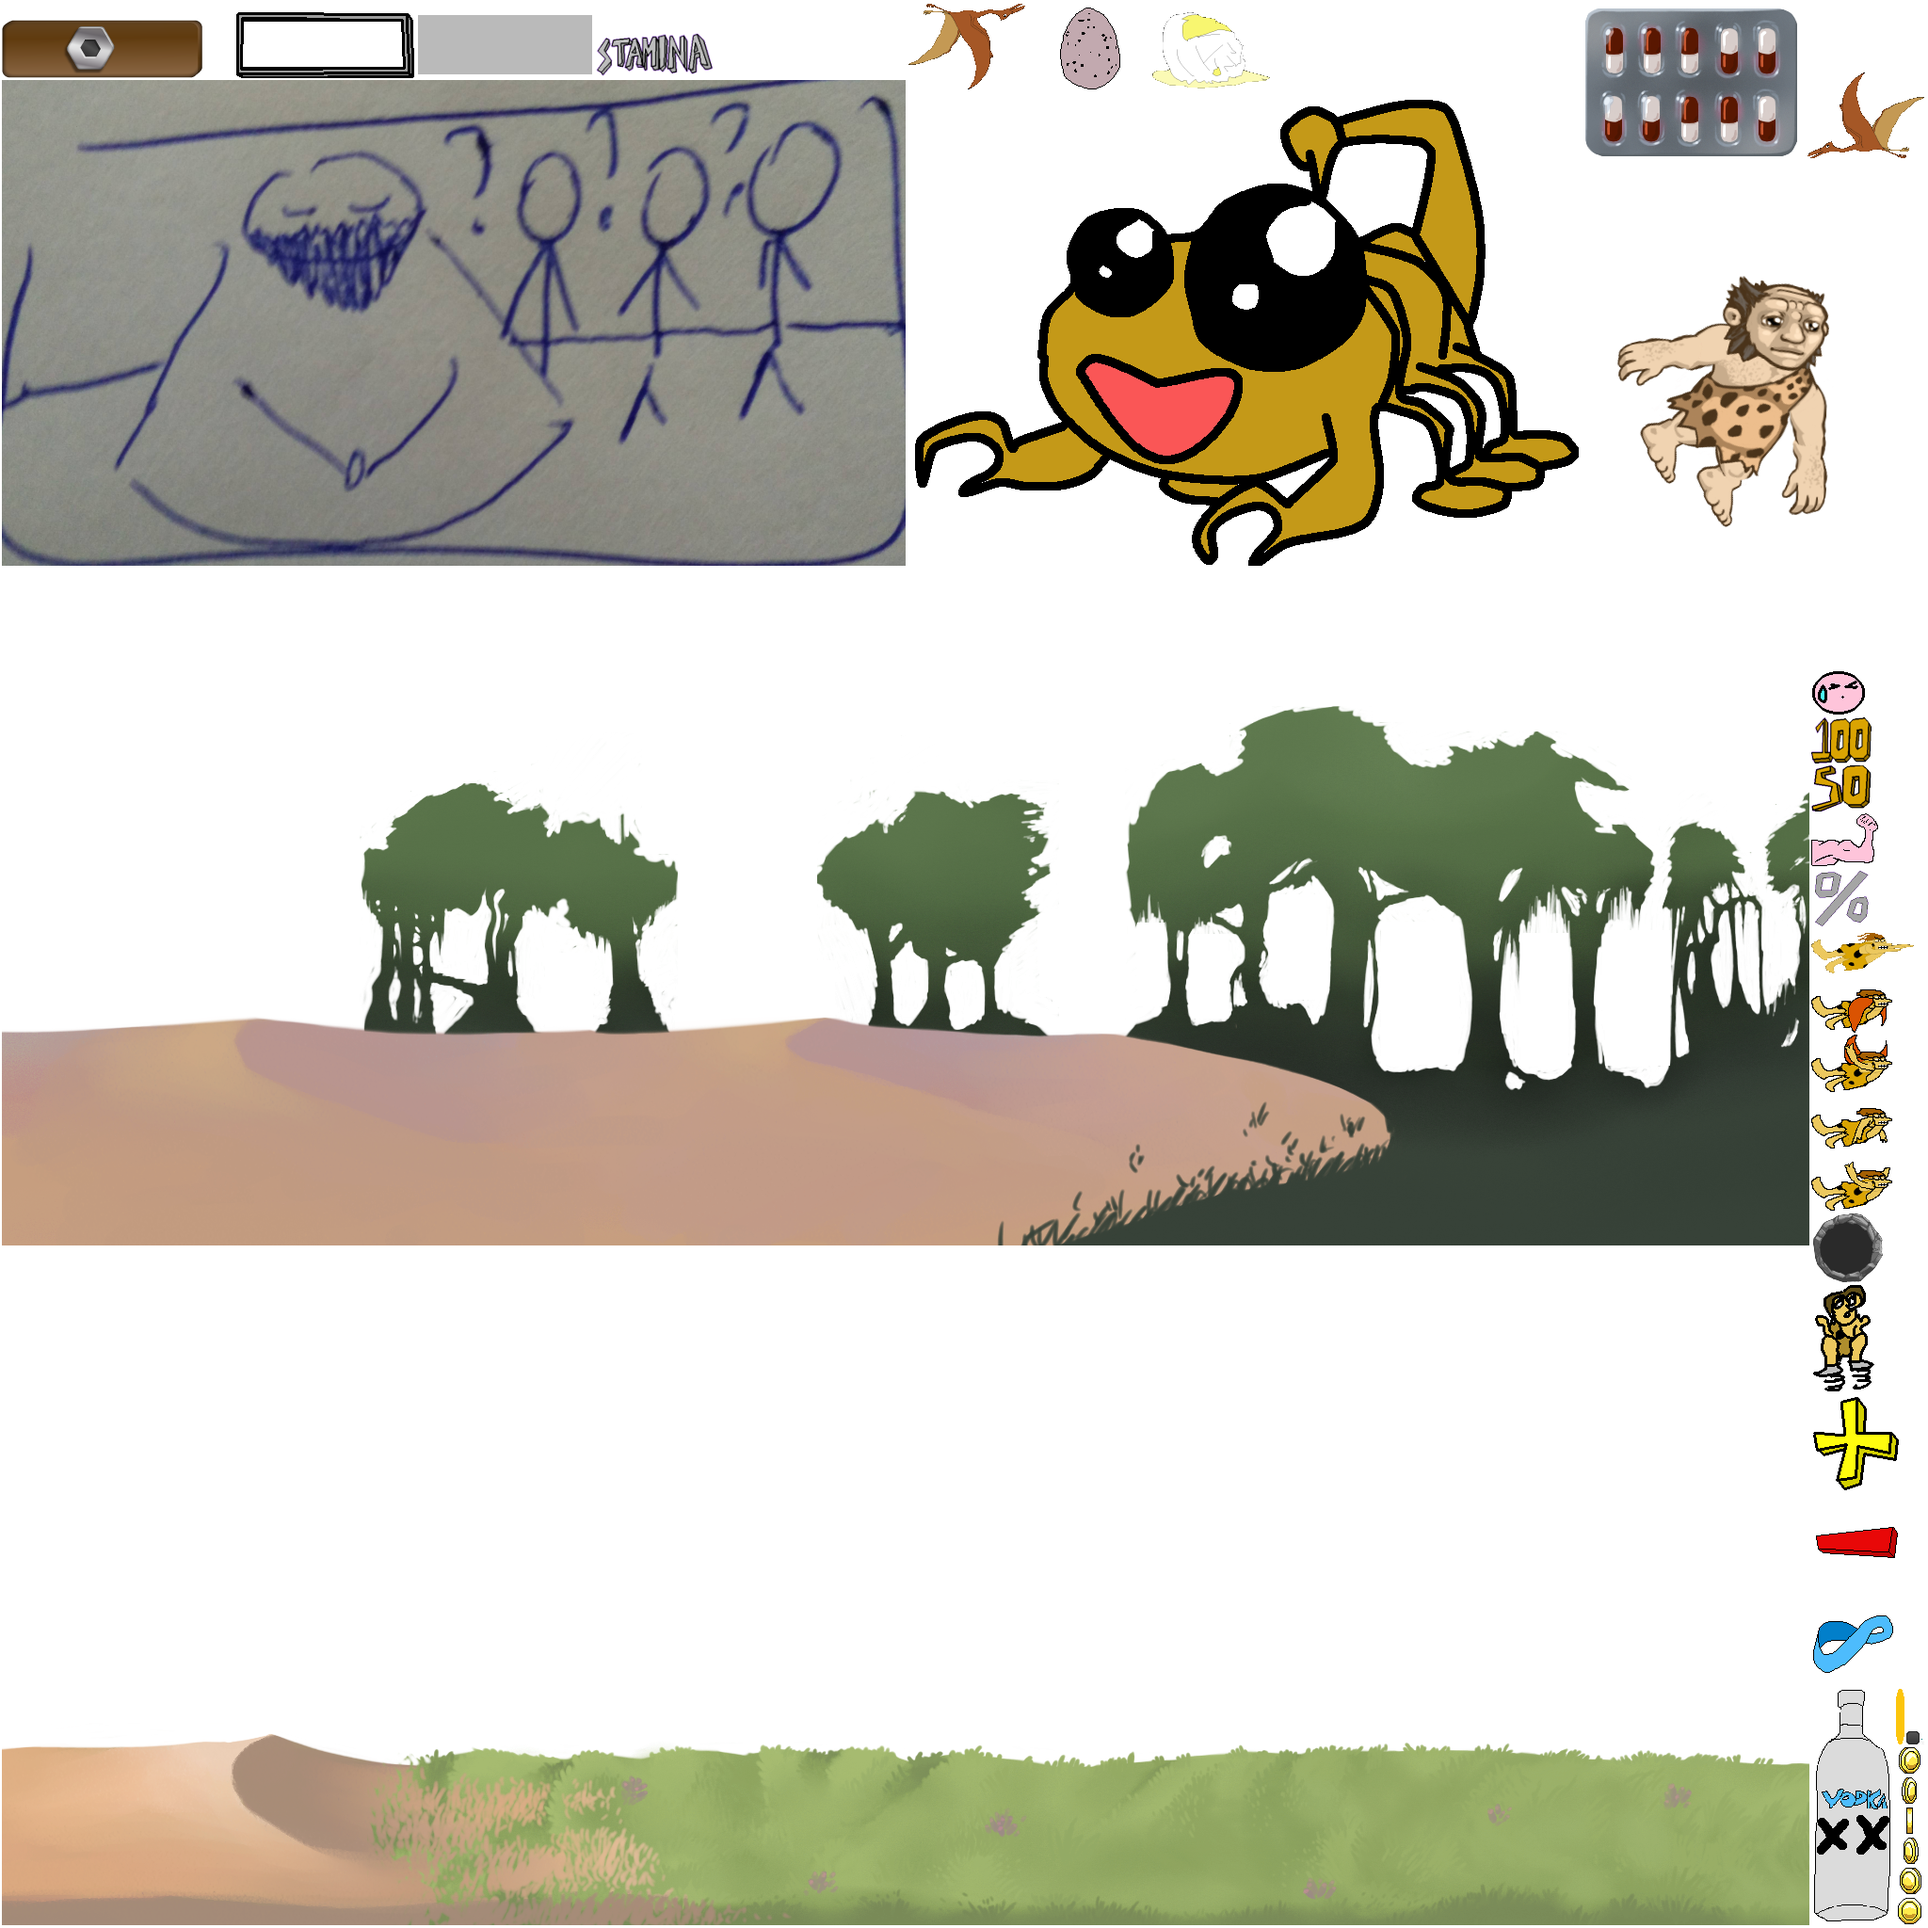
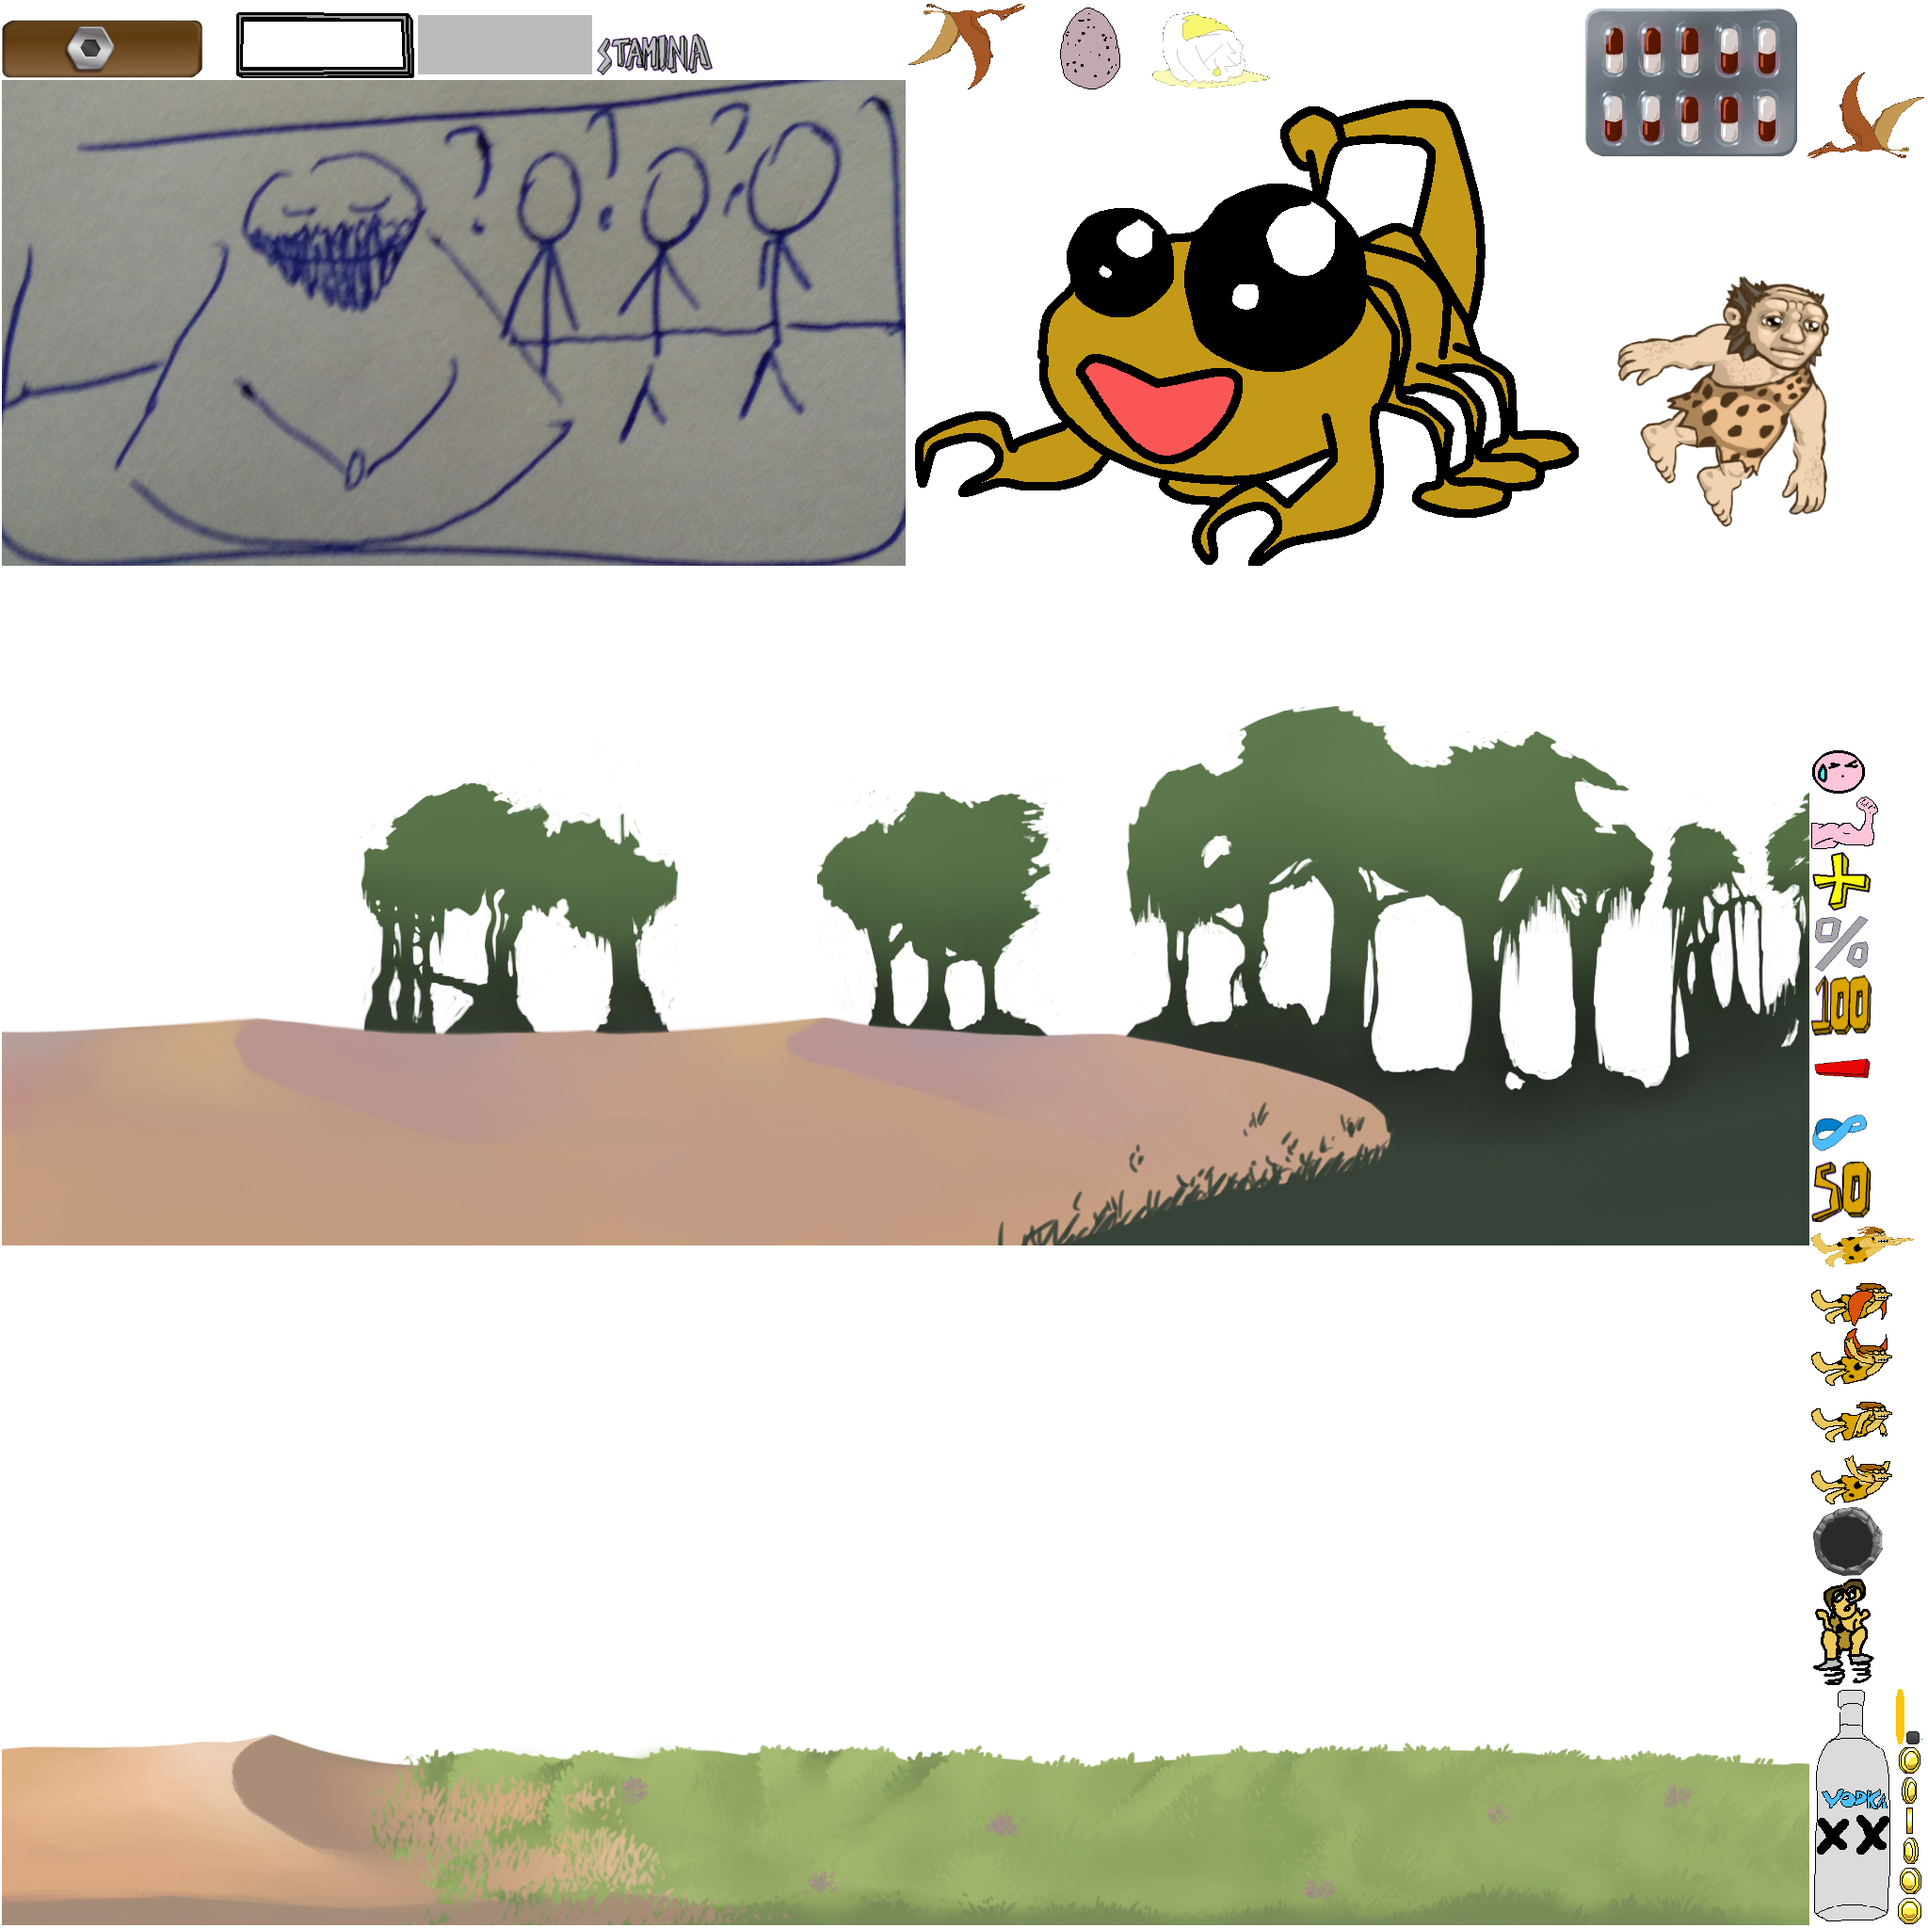
:trihard:  powerups feedback UI

Changed region(s): [[0.9375, 0.3438, 1.0, 0.875]]

diff --git a/core/src/com/deeep/flycaveman/widgets/PickupsWidget.java b/core/src/com/deeep/flycaveman/widgets/PickupsWidget.java
@@ -63,36 +63,76 @@ public class PickupsWidget extends Actor {
     public void show(PowerUp.Type type) {
         if (type == PowerUp.Type.VODKA) {
             stamina.addAction(new SequenceAction(
-                    Actions.moveTo(80, Core.VIRTUAL_HEIGHT / 2 - stamina.getHeight() / 2, 0.4f)/*,
-                    Actions.scaleBy(1.2f, 1.2f, 0.25f), Actions.scaleBy(0.5f, 0.5f, 0.25f)*/,
+                    Actions.moveTo(192, Core.VIRTUAL_HEIGHT / 2 - stamina.getHeight() / 2, 0.4f),
+                    Actions.scaleBy(0.5f, 0.5f, 0.25f), Actions.scaleBy(-0.5f, -0.5f, 0.25f),
                     Actions.delay(0.5f),
                     Actions.moveTo(-stamina.getWidth(), Core.VIRTUAL_HEIGHT / 2 - stamina.getHeight() / 2, 0.4f)));
             minus.addAction(new SequenceAction(
-                    Actions.moveTo(20, Core.VIRTUAL_HEIGHT / 2 - minus.getHeight() / 2, 0.4f)/*,
-                    Actions.scaleBy(1.2f, 1.2f, 0.25f), Actions.scaleBy(0.5f, 0.5f, 0.25f)*/,
+                    Actions.moveTo(0, Core.VIRTUAL_HEIGHT / 2 - minus.getHeight() / 2, 0.4f),
+                    Actions.scaleBy(0.5f, 0.5f, 0.25f), Actions.scaleBy(-0.5f, -0.5f, 0.25f),
                     Actions.delay(0.5f),
                     Actions.moveTo(-minus.getWidth(), Core.VIRTUAL_HEIGHT / 2 - minus.getHeight() / 2, 0.4f)));
+            five.addAction(new SequenceAction(
+                    Actions.moveTo(64, Core.VIRTUAL_HEIGHT / 2 - five.getHeight() / 2, 0.4f),
+                    Actions.scaleBy(0.5f, 0.5f, 0.25f), Actions.scaleBy(-0.5f, -0.5f, 0.25f),
+                    Actions.delay(0.5f),
+                    Actions.moveTo(-stamina.getWidth(), Core.VIRTUAL_HEIGHT / 2 - five.getHeight() / 2, 0.4f)));
+            percentage.addAction(new SequenceAction(
+                    Actions.moveTo(128, Core.VIRTUAL_HEIGHT / 2 - percentage.getHeight() / 2, 0.4f),
+                    Actions.scaleBy(0.5f, 0.5f, 0.25f), Actions.scaleBy(-0.5f, -0.5f, 0.25f),
+                    Actions.delay(0.5f),
+                    Actions.moveTo(-percentage.getWidth(), Core.VIRTUAL_HEIGHT / 2 - percentage.getHeight() / 2, 0.4f)));
         } else if (type == PowerUp.Type.SPINACH) {
             stamina.addAction(new SequenceAction(
-                    Actions.moveTo(80, Core.VIRTUAL_HEIGHT / 2 - stamina.getHeight() / 2, 0.4f)/*,
-                    Actions.scaleBy(1.2f, 1.2f, 0.25f), Actions.scaleBy(0.5f, 0.5f, 0.25f)*/,
+                    Actions.moveTo(80, Core.VIRTUAL_HEIGHT / 2 - stamina.getHeight() / 2, 0.4f),
+                    Actions.scaleBy(0.5f, 0.5f, 0.25f), Actions.scaleBy(-0.5f, -0.5f, 0.25f),
                     Actions.delay(0.5f),
                     Actions.moveTo(-stamina.getWidth(), Core.VIRTUAL_HEIGHT / 2 - stamina.getHeight() / 2, 0.4f)));
             infinite.addAction(new SequenceAction(
-                    Actions.moveTo(20, Core.VIRTUAL_HEIGHT / 2 - infinite.getHeight() / 2, 0.4f)/*,
-                    Actions.scaleBy(1.2f, 1.2f, 0.25f), Actions.scaleBy(0.5f, 0.5f, 0.25f)*/,
+                    Actions.moveTo(0, Core.VIRTUAL_HEIGHT / 2 - infinite.getHeight() / 2, 0.4f),
+                    Actions.scaleBy(0.5f, 0.5f, 0.25f), Actions.scaleBy(-0.5f, -0.5f, 0.25f),
                     Actions.delay(0.5f),
                     Actions.moveTo(-infinite.getWidth(), Core.VIRTUAL_HEIGHT / 2 - infinite.getHeight() / 2, 0.4f)));
         } else if (type == PowerUp.Type.SODACAN) {
             stamina.addAction(new SequenceAction(
-                    Actions.moveTo(80, Core.VIRTUAL_HEIGHT / 2 - stamina.getHeight() / 2, 0.4f)/*,
-                    Actions.scaleBy(1.2f, 1.2f, 0.25f), Actions.scaleBy(0.5f, 0.5f, 0.25f)*/,
+                    Actions.moveTo(80, Core.VIRTUAL_HEIGHT / 2 - stamina.getHeight() / 2, 0.4f),
+                    Actions.scaleBy(0.5f, 0.5f, 0.25f), Actions.scaleBy(-0.5f, -0.5f, 0.25f),
+                    Actions.delay(0.5f),
+                    Actions.moveTo(-stamina.getWidth(), Core.VIRTUAL_HEIGHT / 2 - stamina.getHeight() / 2, 0.4f)));
+            plus.addAction(new SequenceAction(
+                    Actions.moveTo(0, Core.VIRTUAL_HEIGHT / 2 - plus.getHeight() / 2, 0.4f),
+                    Actions.scaleBy(0.5f, 0.5f, 0.25f), Actions.scaleBy(-0.5f, -0.5f, 0.25f),
+                    Actions.delay(0.5f),
+                    Actions.moveTo(-plus.getWidth(), Core.VIRTUAL_HEIGHT / 2 - plus.getHeight() / 2, 0.4f)));
+            five.addAction(new SequenceAction(
+                    Actions.moveTo(35, Core.VIRTUAL_HEIGHT / 2 - stamina.getHeight() / 2, 0.4f),
+                    Actions.scaleBy(0.5f, 0.5f, 0.25f), Actions.scaleBy(-0.5f, -0.5f, 0.25f),
+                    Actions.delay(0.5f),
+                    Actions.moveTo(-stamina.getWidth(), Core.VIRTUAL_HEIGHT / 2 - stamina.getHeight() / 2, 0.4f)));
+            percentage.addAction(new SequenceAction(
+                    Actions.moveTo(45, Core.VIRTUAL_HEIGHT / 2 - stamina.getHeight() / 2, 0.4f),
+                    Actions.scaleBy(0.5f, 0.5f, 0.25f), Actions.scaleBy(-0.5f, -0.5f, 0.25f),
                     Actions.delay(0.5f),
                     Actions.moveTo(-stamina.getWidth(), Core.VIRTUAL_HEIGHT / 2 - stamina.getHeight() / 2, 0.4f)));
         } else if (type == PowerUp.Type.MEAT) {
             stamina.addAction(new SequenceAction(
-                    Actions.moveTo(80, Core.VIRTUAL_HEIGHT / 2 - stamina.getHeight() / 2, 0.4f)/*,
-                    Actions.scaleBy(1.2f, 1.2f, 0.25f), Actions.scaleBy(0.5f, 0.5f, 0.25f)*/,
+                    Actions.moveTo(80, Core.VIRTUAL_HEIGHT / 2 - stamina.getHeight() / 2, 0.4f),
+                    Actions.scaleBy(0.5f, 0.5f, 0.25f), Actions.scaleBy(-0.5f, -0.5f, 0.25f),
+                    Actions.delay(0.5f),
+                    Actions.moveTo(-stamina.getWidth(), Core.VIRTUAL_HEIGHT / 2 - stamina.getHeight() / 2, 0.4f)));
+            plus.addAction(new SequenceAction(
+                    Actions.moveTo(0, Core.VIRTUAL_HEIGHT / 2 - plus.getHeight() / 2, 0.4f),
+                    Actions.scaleBy(0.5f, 0.5f, 0.25f), Actions.scaleBy(-0.5f, -0.5f, 0.25f),
+                    Actions.delay(0.5f),
+                    Actions.moveTo(-plus.getWidth(), Core.VIRTUAL_HEIGHT / 2 - plus.getHeight() / 2, 0.4f)));
+            one.addAction(new SequenceAction(
+                    Actions.moveTo(35, Core.VIRTUAL_HEIGHT / 2 - stamina.getHeight() / 2, 0.4f),
+                    Actions.scaleBy(0.5f, 0.5f, 0.25f), Actions.scaleBy(-0.5f, -0.5f, 0.25f),
+                    Actions.delay(0.5f),
+                    Actions.moveTo(-stamina.getWidth(), Core.VIRTUAL_HEIGHT / 2 - stamina.getHeight() / 2, 0.4f)));
+            percentage.addAction(new SequenceAction(
+                    Actions.moveTo(45, Core.VIRTUAL_HEIGHT / 2 - stamina.getHeight() / 2, 0.4f),
+                    Actions.scaleBy(0.5f, 0.5f, 0.25f), Actions.scaleBy(-0.5f, -0.5f, 0.25f),
                     Actions.delay(0.5f),
                     Actions.moveTo(-stamina.getWidth(), Core.VIRTUAL_HEIGHT / 2 - stamina.getHeight() / 2, 0.4f)));
         }
